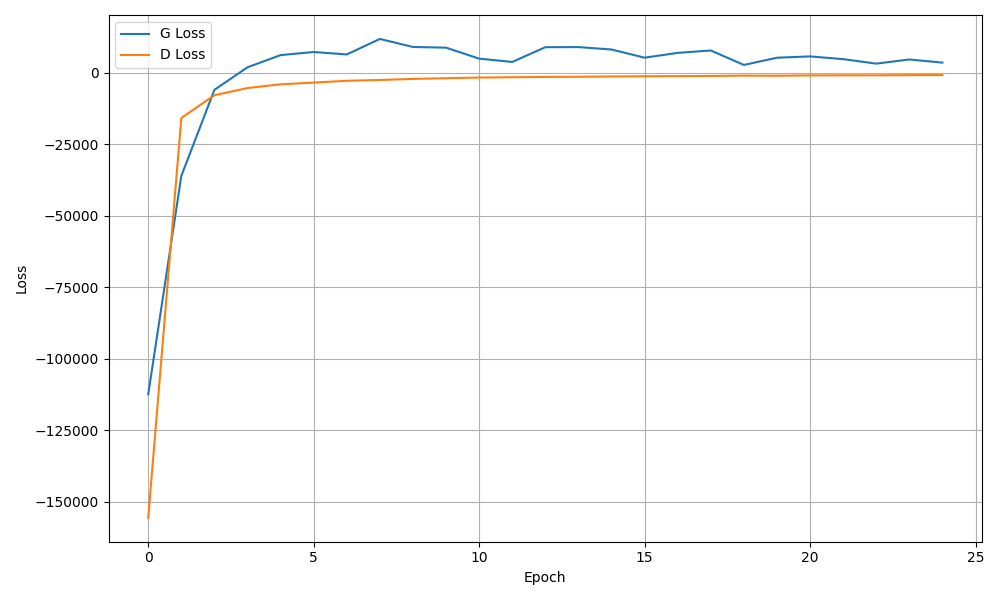
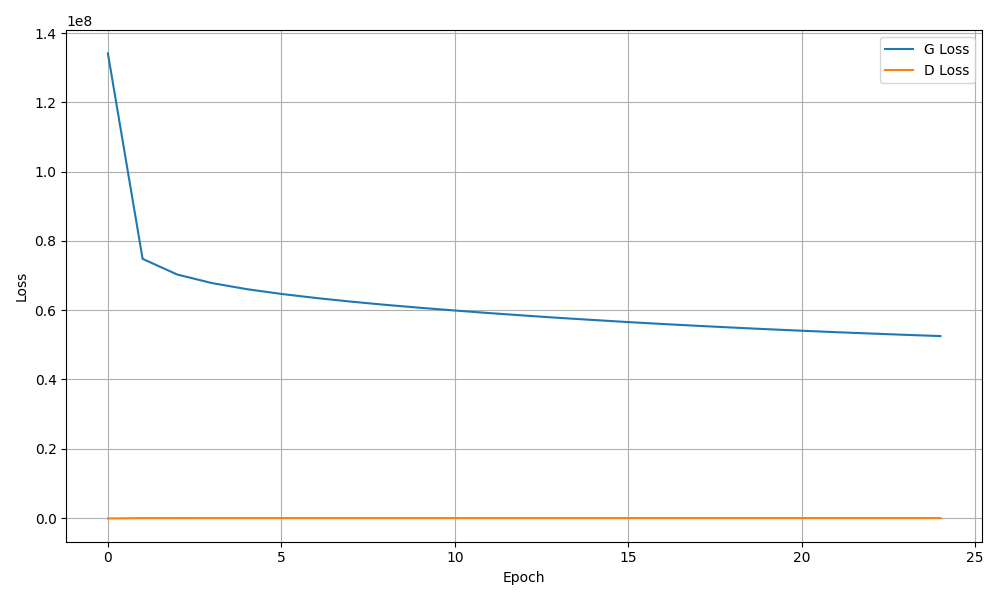
Fixed GAN l1 loss reduction

diff --git a/src/field_reconstruction/test.py b/src/field_reconstruction/test.py
@@ -353,7 +353,7 @@ def check_normalization(tensor, name="Tensor"):
     print(f"  Std:  {tensor_np.std():.4f}")
     
 
-def evaluate_ensemble_model(model_type, test_loader, checkpoint_path, variable_names=None, config_file=None, k=10):
+def evaluate_ensemble_model(model_type, test_loader, checkpoint_path, variable_names=None, config_file=None, k=25):
     """
     Evaluate an ensemble model by averaging multiple predictions
     """
@@ -399,7 +399,7 @@ def evaluate_ensemble_model(model_type, test_loader, checkpoint_path, variable_n
                     inputs_random = torch.cat([inputs_mod, z_random], dim=1)
                     preds = model(inputs_random)
                     #Print the shape of the predictions
-                    print(f"Predictions shape: {preds.shape}")
+                    #print(f"Predictions shape: {preds.shape}")
                 else:
                     preds = model(inputs)
                 all_preds.append(preds.cpu().numpy())

diff --git a/src/field_reconstruction/train.py b/src/field_reconstruction/train.py
@@ -166,7 +166,7 @@ def train_cwgan(generator, discriminator, data, model_save_path, config):
     #Print lr
     print(f"learning_rate: {config['learning_rate']}")
     lambda_gp = config.get("lambda_gp", 10)
-    lambda_l1 = config.get("lambda_l1", 100)
+    lambda_l1 = config.get("lambda_l1", 1000)
     epochs = config["epochs"]
     critic_iter = config.get("critic_iter", 5)
 

diff --git a/src/field_reconstruction/loss_functions.py b/src/field_reconstruction/loss_functions.py
@@ -35,7 +35,7 @@ def cwgan_generator_loss(fake_pred, recon_x, real_x, lambda_l1):
         Tensor: Generator loss.
     """
     adv_loss = -torch.mean(fake_pred)
-    recon_loss = F.l1_loss(recon_x, real_x, reduction="mean")
+    recon_loss = F.l1_loss(recon_x, real_x, reduction="sum")
     g_loss = adv_loss + lambda_l1 * recon_loss
     return g_loss
 
